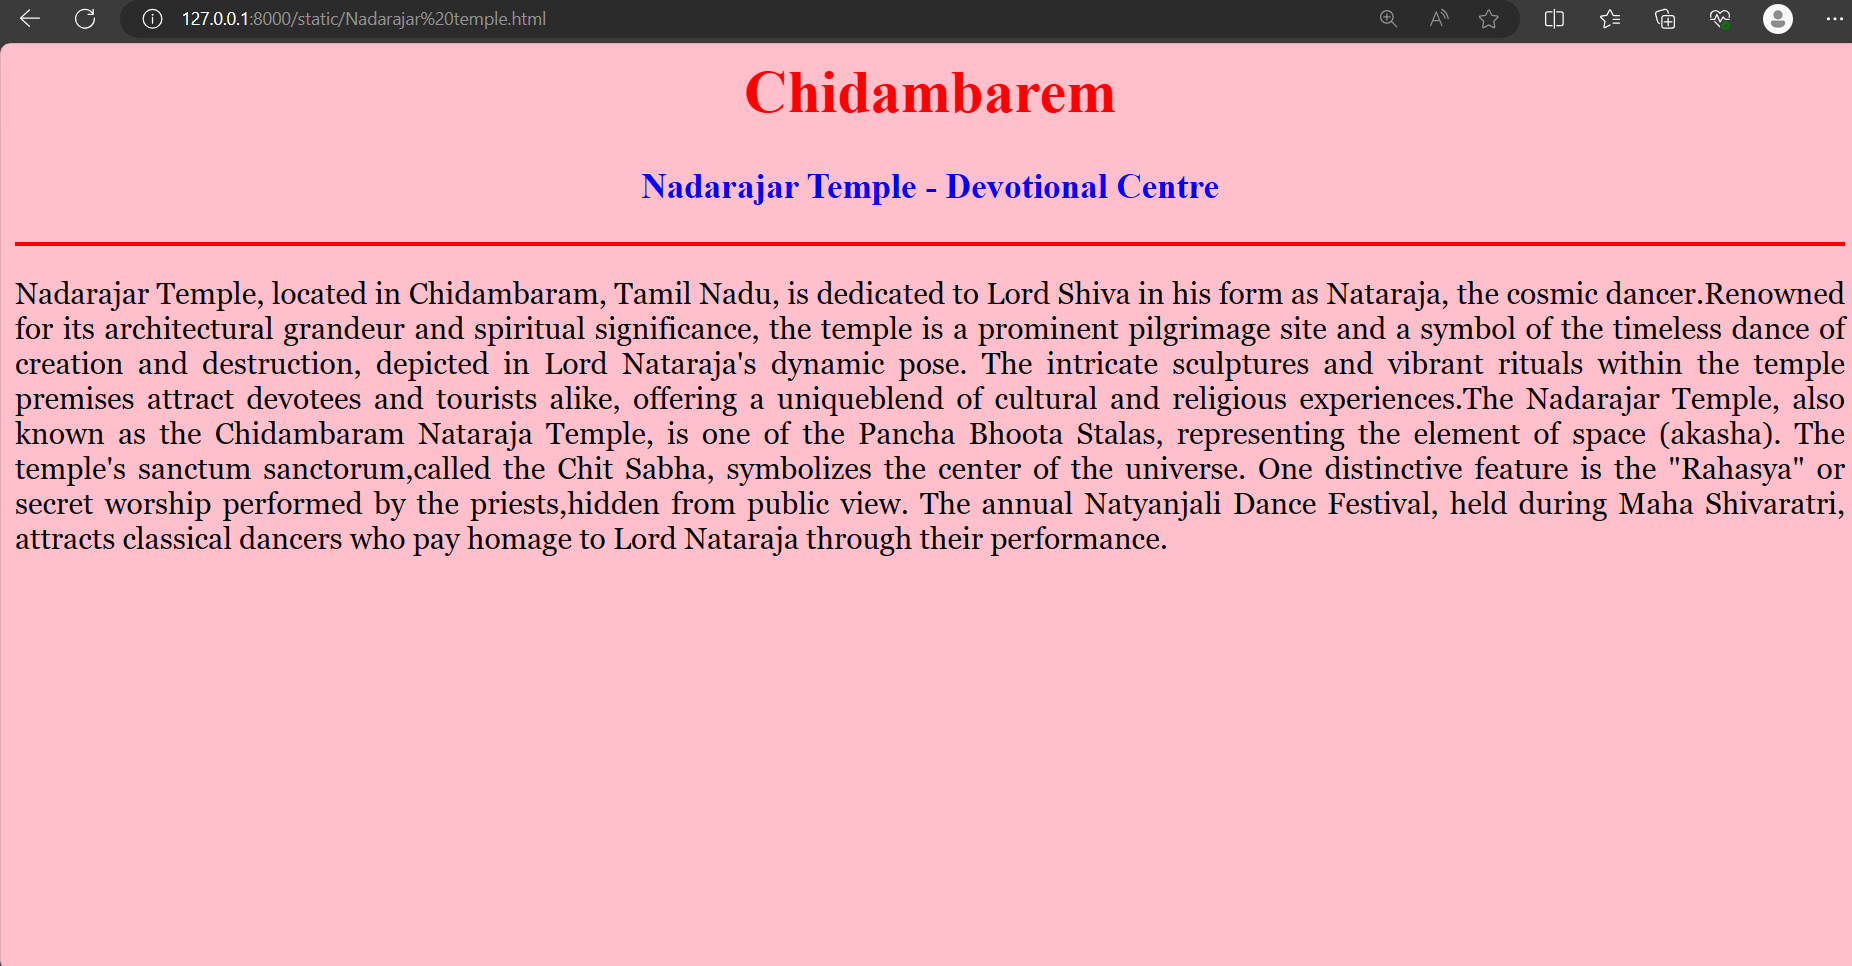
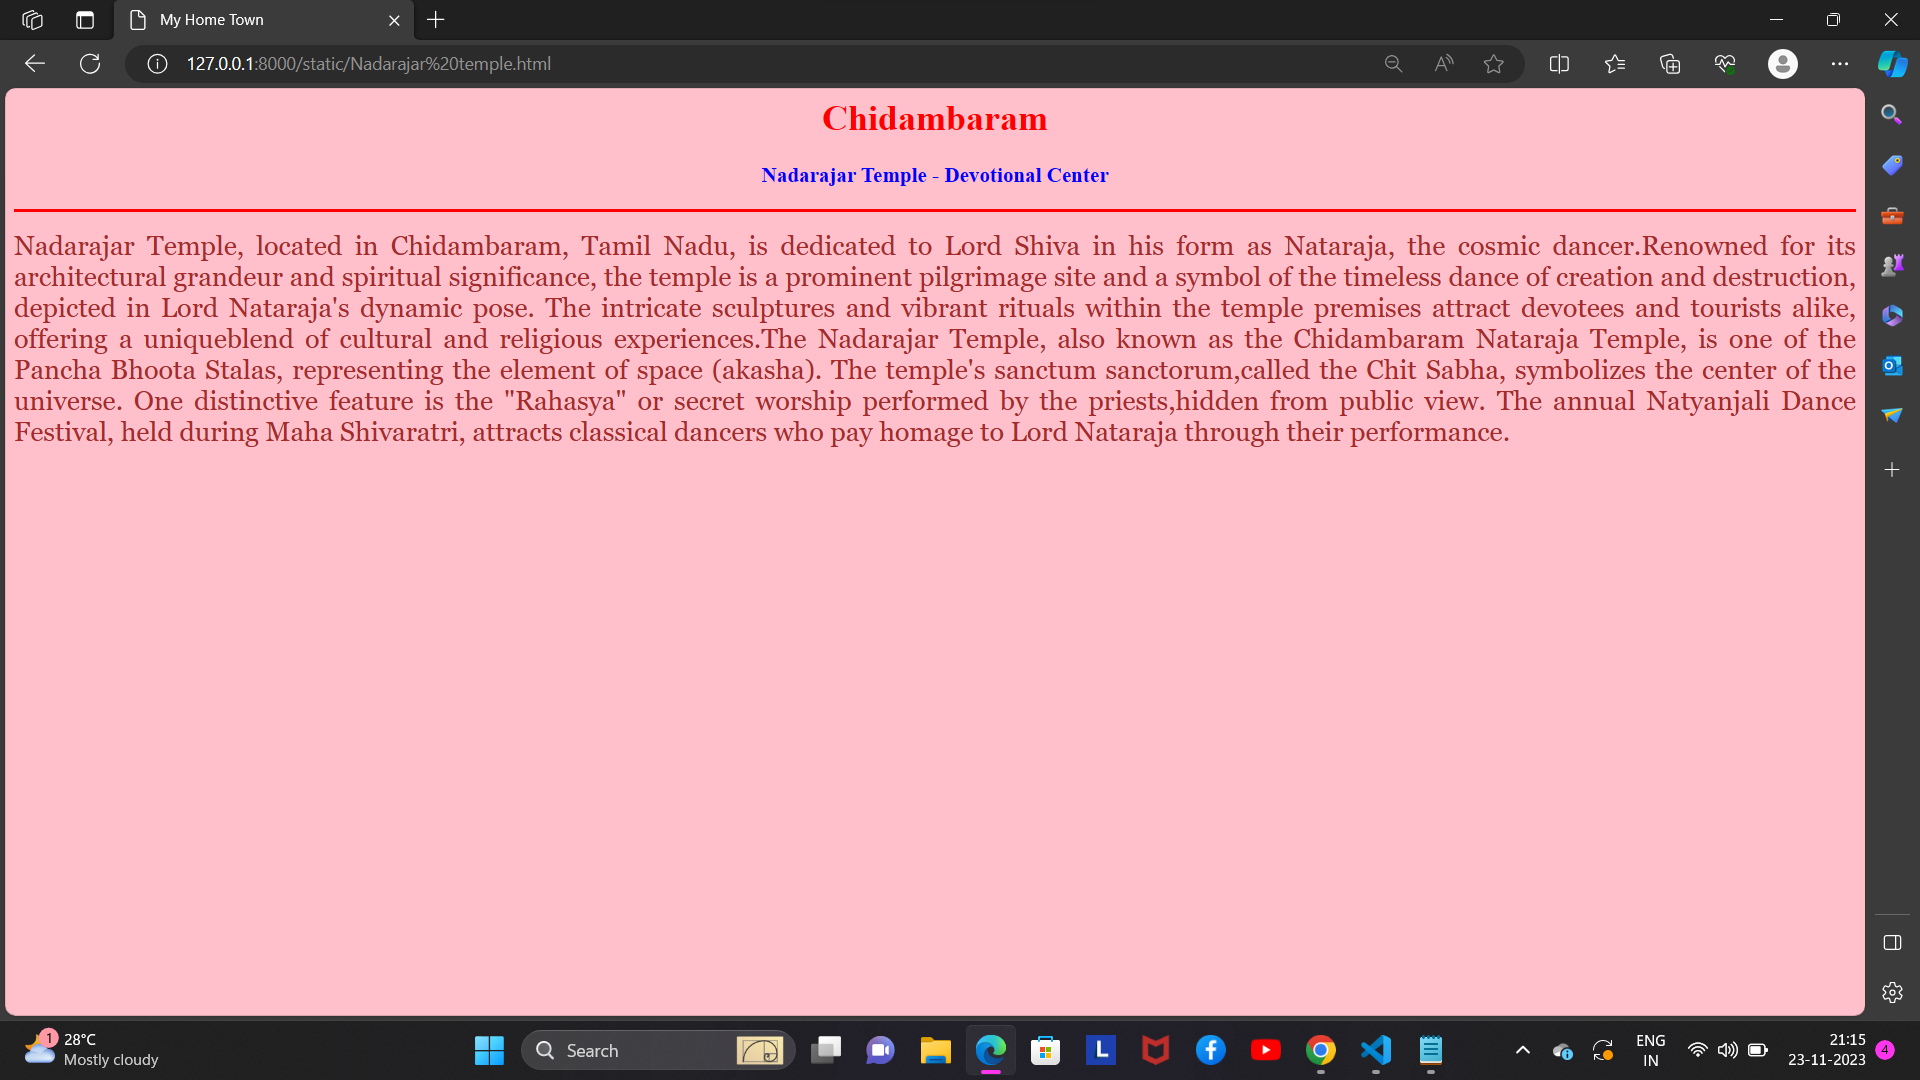
Success

Changed region(s): [[0.0, 0.0, 1.0, 1.0]]

diff --git a/README.md b/README.md
@@ -66,7 +66,7 @@ Nadarajar temple.html
 </h3>
 <hr size="3" color="red">
 <p align="justify">
-<font face="Georgia" size="s">
+<font face="Georgia" size="5">
 Nadarajar Temple, located in Chidambaram, Tamil Nadu, is dedicated to Lord Shiva in his form as Nataraja,
 the cosmic dancer.Renowned for its architectural grandeur and spiritual significance, the temple is
 a prominent pilgrimage site and a symbol of the timeless dance of creation and destruction, depicted in
@@ -97,7 +97,7 @@ cafe.html
 </h3>
 <hr size="3" color="voilet">
 <p align="justify">
-<font face="Georgia" size="s">
+<font face="Georgia" size="5">
 Murthi Cafe is a popular eatery known for its diverse menu and inviting ambiance,
 offering a delightful culinary experience for locals and visitors alike.
 Located in [specific location], Murthi Cafe is celebrated not only for its delectable
@@ -124,7 +124,7 @@ Thillai Temple.html
 </h3>
 <hr size="3" color="red">
 <p align="justify">
-<font face="Georgia" size="s">
+<font face="Georgia" size="5">
 Thillai Kali Temple is a Hindu Temple located on the outskirts of the town of Chidambaram,
 Cuddalore District Tamil Nadu in India. It was built by Chola King Kopperunjingan who 
 ruled between 1229 and 1278. Thillai Kali' is a deity in anger. This anger was pacified by
@@ -154,7 +154,7 @@ Vandayar Hotel.html
 </h3>
 <hr size="3" color="red">
 <p align="justify">
-<font face="Georgia" size="s">
+<font face="Georgia" size="5">
 Everyone needs a place to lay their weary head. For travellers visiting Chidambaram,
 Vandayar Hotel is an excellent choice for rest and rejuvenation. Well-known for its
 family-friendly environment and proximity to great restaurants, Vandayar Hotel makes
@@ -183,7 +183,7 @@ VAO Office.html
 </h3>
 <hr size="3" color="red">
 <p align="justify">
-<font face="Georgia" size="s">
+<font face="Georgia" size="5">
 The Chidambaram Town became a III rd grade Municipal town asper G.O.Ms NO 33, Finance 
 dt 25-3-1873 and then upgraded as II nd gradeMunicipal town in G.O Ms No 2302 RD & LA dt
 11-4-1949. During the year 1974the town was upgraded as I grade Municipal Town as read in 
@@ -209,6 +209,5 @@ Chidambaram for collection of taxes through online and acceptable to their servi
 ![Alt text](4.png)
 ![Alt text](5.png)
 ![Alt text](6.png)
-
 ## RESULT
 The program for implementing image maps using HTML is executed successfully.
